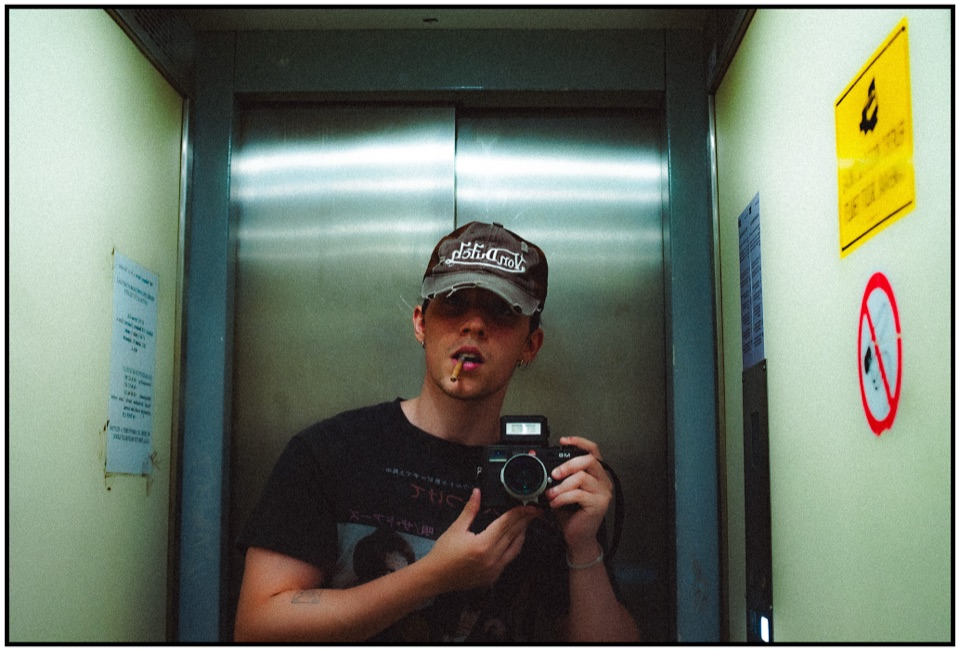
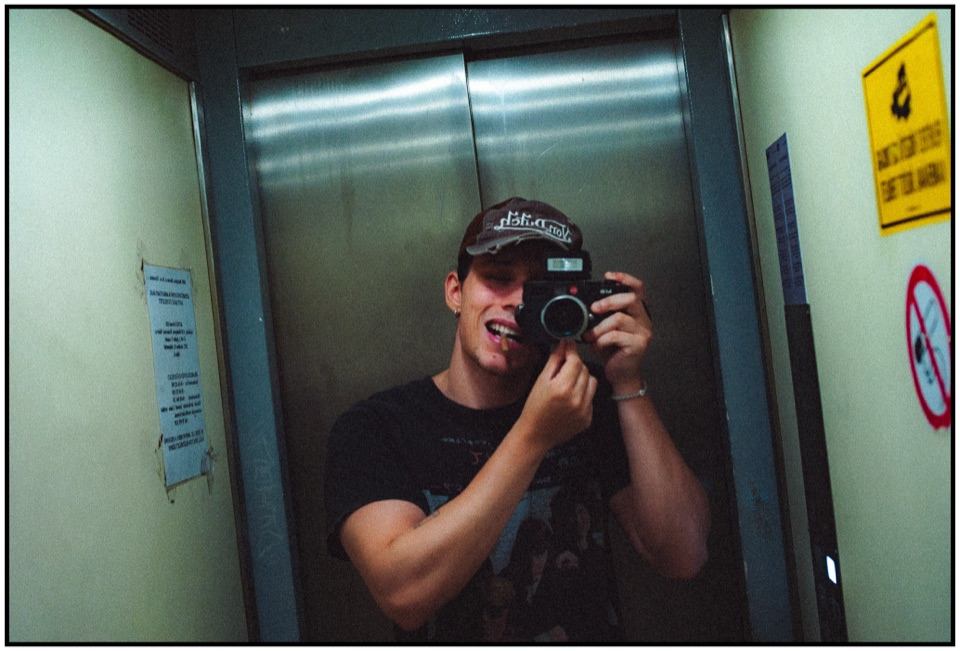
The site, as built: a new contact photograph

diff --git a/lqip.css b/lqip.css
@@ -1,3 +1,3 @@
 /* generated by build.js — the landing and the contact photograph, before they arrive */
[3 lines of base64/hex data omitted]

diff --git a/sw.js b/sw.js
@@ -6,7 +6,7 @@
 // never changes. (Replace a photograph under the same name — the landing's
 // landing.jpg, the contact page's contact.jpg — and bump VERSION.)
 
-const VERSION = 'dxwe-app-9';
+const VERSION = 'dxwe-app-10';
 const SHELL = [
   '/',
   '/app.css',
